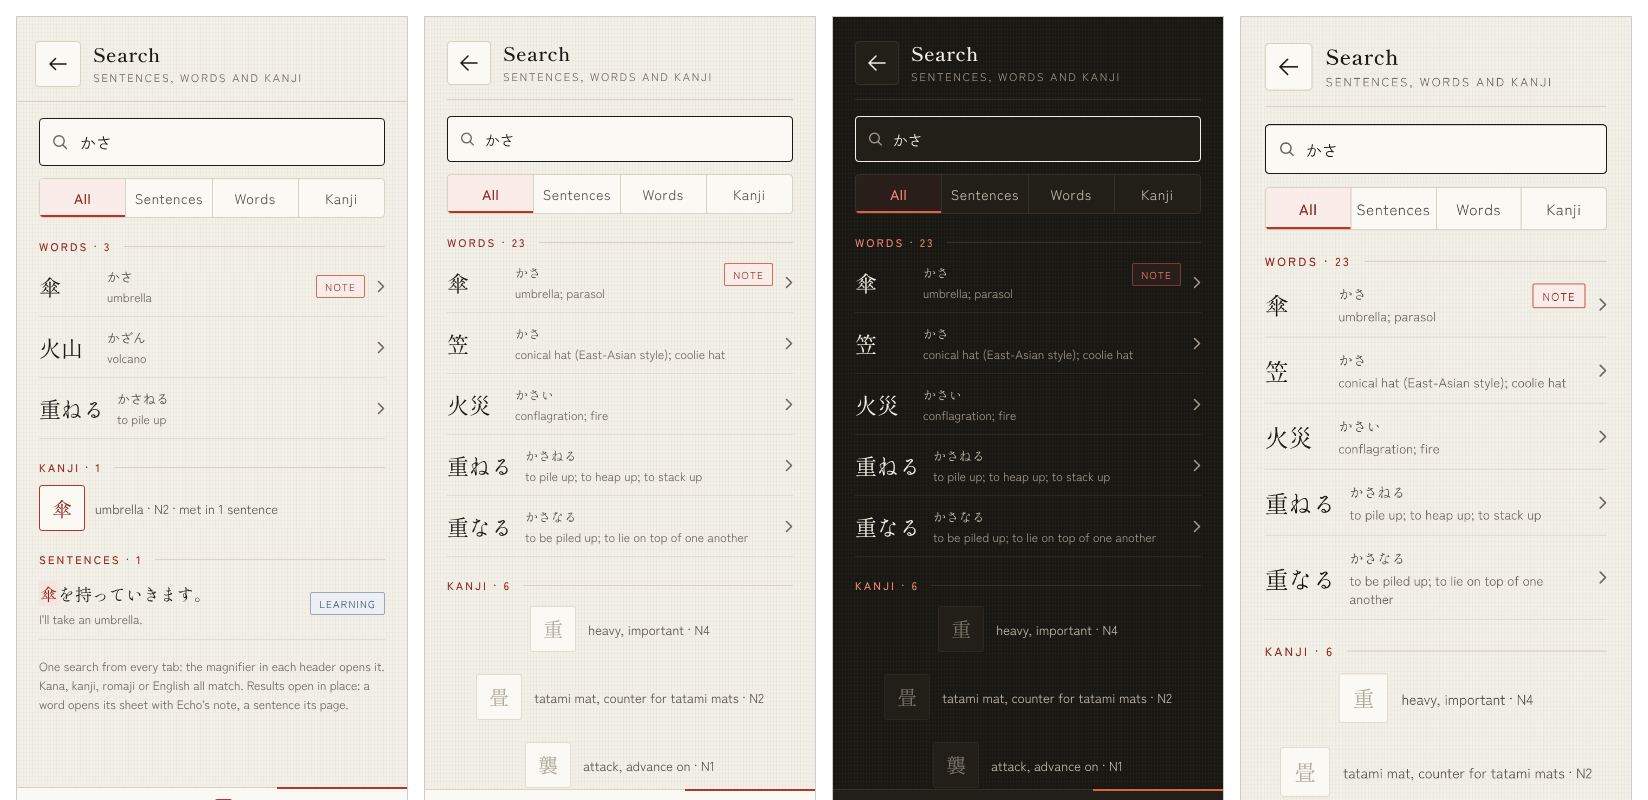
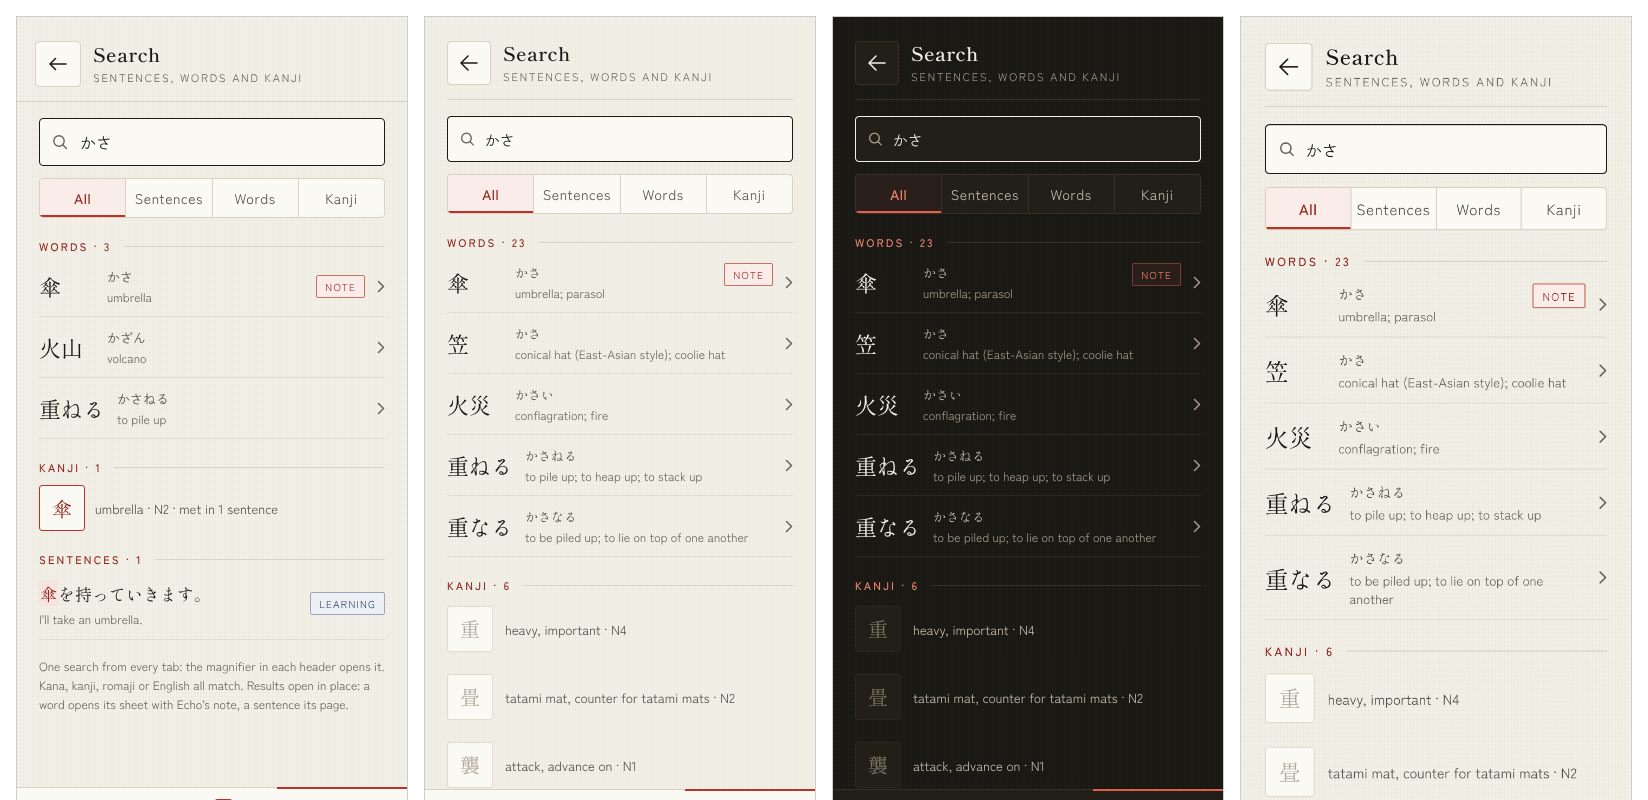
style(search): result rows start at the left edge
Claude-Session: https://claude.ai/code/session_01FG4otwNLNNgvm2f5kTNcdq

diff --git a/styles.css b/styles.css
@@ -1724,7 +1724,7 @@ header .header-search+#settings-button{margin-left:-4px}
 .search-list{list-style:none;margin:2px 0 0;padding:0}
 .search-list li{border-bottom:1px solid var(--rule)}
 .search-list.kanji li{border-bottom:0}
-.search-row{display:flex;align-items:center;gap:12px;width:100%;height:auto;min-height:44px;padding:11px 0;background:transparent;border:0;border-radius:0;color:inherit;text-align:left;letter-spacing:normal;font-size:inherit}
+.search-row{display:flex;align-items:center;justify-content:flex-start;gap:12px;width:100%;height:auto;min-height:44px;padding:11px 0;background:transparent;border:0;border-radius:0;color:inherit;text-align:left;letter-spacing:normal;font-size:inherit}
 .search-row>svg{flex-shrink:0;color:var(--ink-muted)}
 .search-word{flex-shrink:0;min-width:56px;font-family:var(--display);font-size:22px}
 .search-lines{flex:1 1 auto;min-width:0;display:flex;flex-direction:column;gap:2px}
